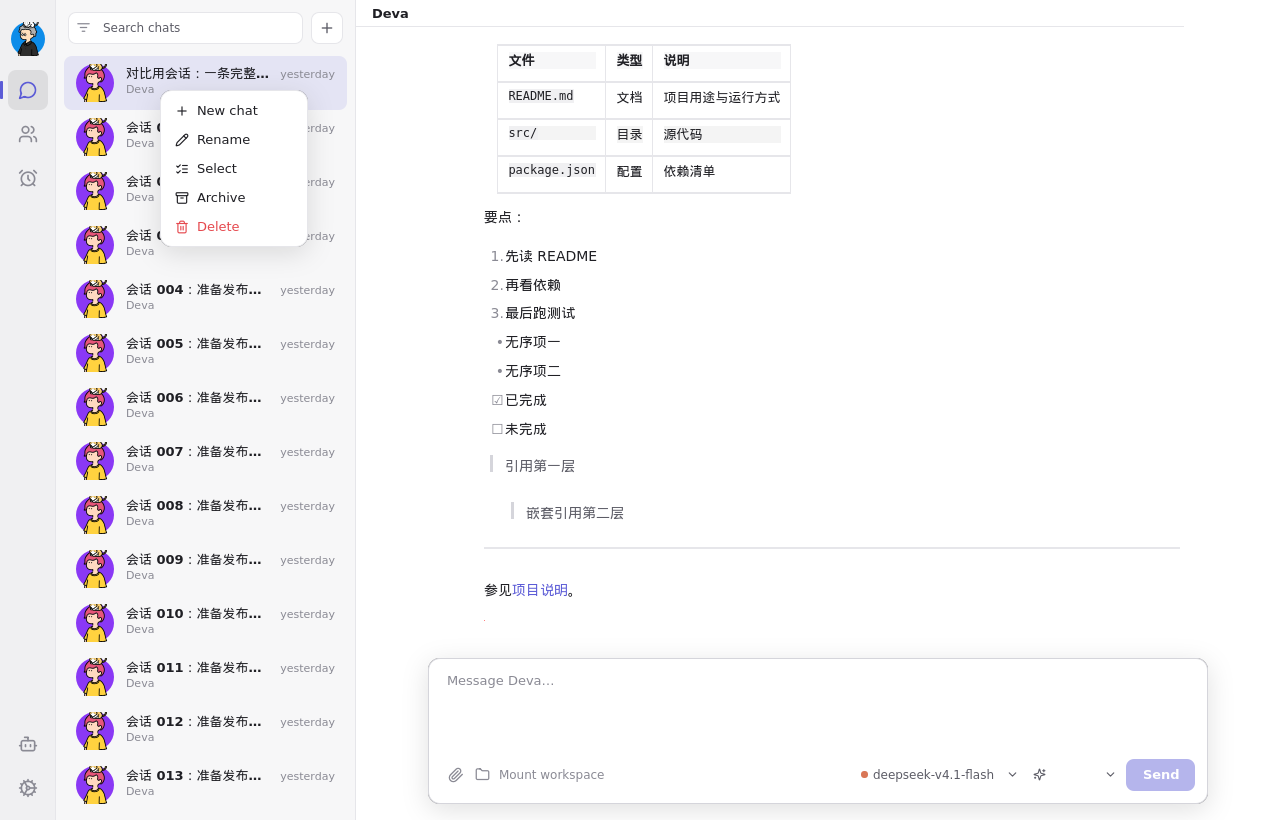
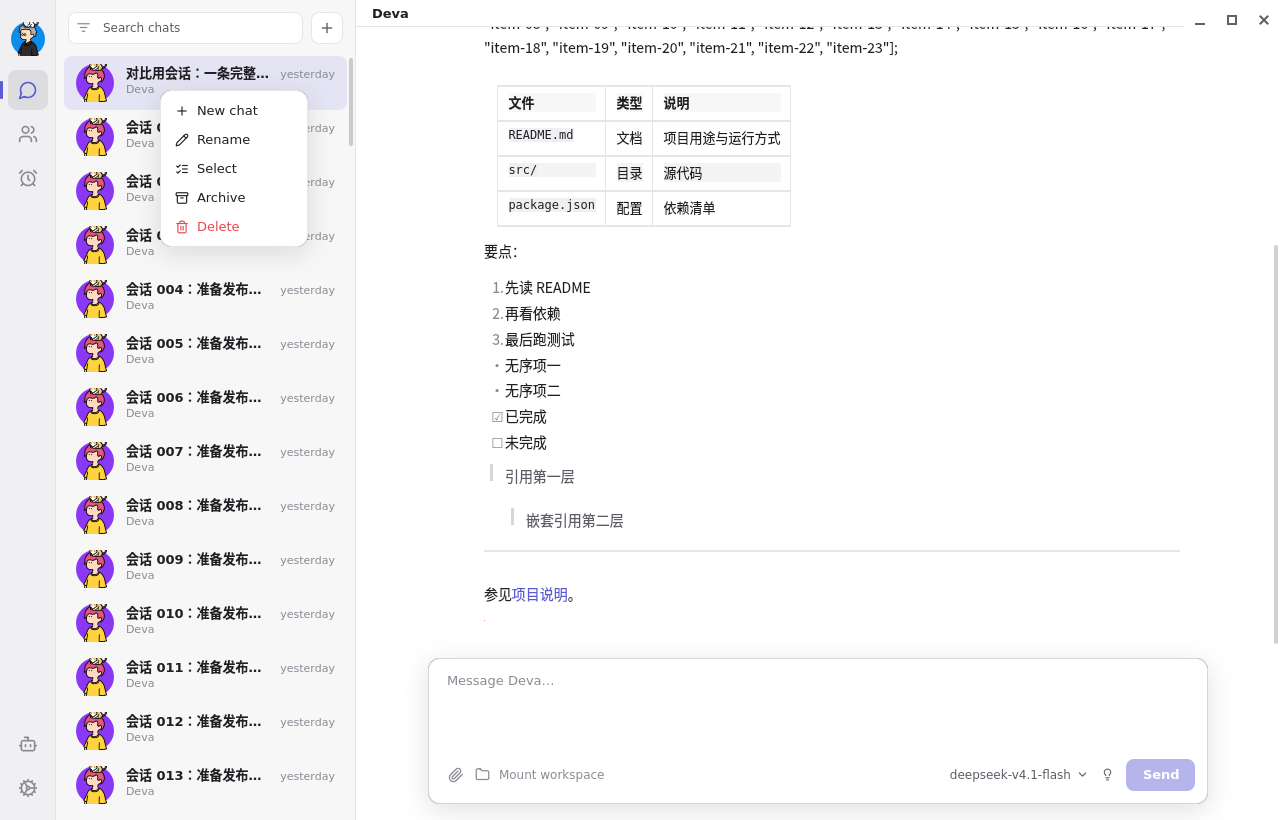
test(qml): 右键非活动会话动作端到端验证并重拍 ctx-menu
Rename/Select/Archive 的产品接线已在 d4279ad/9e7d23c 完成；本提交补上从非活动行真实右键的端到端覆盖，验证 ctxSessionId 传播、标题落盘、选择集与归档持久化。重拍 ctx-menu 单页，像素差异 12.12% -> 10.99%。

diff --git a/app/tests/test_qml_context_menu.py b/app/tests/test_qml_context_menu.py
@@ -7,7 +7,9 @@
 3. 重开菜单后点 ``Cancel`` / 点背板 → ``confirm=False``、会话数不变；
 4. 点 ``Rename`` → 输入框出现且可编辑，提交后标题落盘并反映到列表；
 5. 点 ``Select`` → 多选态与底部批量条出现，点行可增减选择数；
-6. 点 ``Archive`` → 会话从普通列表消失、写入 ``archived``，并在归档入口里可查到。
+6. 点 ``Archive`` → 会话从普通列表消失、写入 ``archived``，并在归档入口里可查到；
+7. 从非活动行真实右键 → ``ctxSessionId`` 跟随该行，Rename/Select/Archive 都作用于这一条，
+   并逐项打印会话数、标题、选择集、归档标记与目标文件存在性。
 
 菜单的 5 项名称、顺序、几何与项中心也在第一组里量出来并断言，坐标不是旧截图的常量。
 """
@@ -357,6 +359,104 @@ def test_select_menu_enters_multi_select_with_batch_bar(qapp, tmp_path, monkeypa
         assert bar.property("visible") is False
         assert window.property("selectMode") is False
         assert _as_list(window.property("selectedSessions")) == []
+    finally:
+        ticker.stop()
+        window.close()
+        engine.deleteLater()
+
+
+def test_right_click_non_active_row_actions_hit_that_row(qapp, tmp_path, monkeypatch):
+    """第 7 组：从非活动行右键进入，Rename/Select/Archive 都作用于被右键的那一条。
+
+    `ctx-menu` 深链页的 ctxSessionId 为空，旧用例实际都回退到了当前会话；这里从
+    `threadRow1` 真实右键打开菜单，验证 ctxSessionId 传播到三个动作，并逐项打印
+    会话数量、标题、选择集、归档标记与目标文件存在性。
+    """
+    window, bridge, store, home, ticker, engine = _build_window(tmp_path, monkeypatch)
+    try:
+        from PySide6.QtCore import Qt
+        from PySide6.QtTest import QTest
+
+        _pump(qapp, 0.6)
+        # `_build_window` 默认停在 ctx-menu 深链页，整窗有菜单遮罩；先回到正常 chat 页，
+        # 才能从列表行真实右键（与用户操作一致）。
+        window.setProperty("page", "chat")
+        _pump(qapp, 0.4)
+        assert len(session_rows(store)) == 120
+        assert bridge._active == "parity-000"
+        print(f"BEFORE sessions={len(session_rows(store))} active={bridge._active!r}")
+
+        # Rename：右键第 2 行，菜单的 ctxSessionId 必须是 parity-001，而不是活动会话。
+        row1 = _find_item(window.contentItem(), "threadRow1")
+        assert row1 is not None
+        _click(window, row1, Qt.RightButton)
+        _pump(qapp, 0.3)
+        assert window.property("ctxOpen") is True
+        assert window.property("ctxSessionId") == "parity-001"
+        _click(window, _menu_items(window)[1])
+        _pump(qapp, 0.4)
+        field = _find_item(window.contentItem(), "renameInput")
+        assert field is not None
+        assert field.property("text") == "会话 001：准备发布说明"
+        _click(window, field)
+        QTest.keyClick(window, Qt.Key_A, Qt.ControlModifier)
+        _type_text(window, "renamed non active")
+        _click(window, _find_item(window.contentItem(), "renameConfirm"))
+        _pump(qapp, 0.5)
+        renamed_title = store.load_session("parity-001").title
+        print(
+            "AFTER_RENAME"
+            f" sessions={len(session_rows(store))}"
+            f" title={renamed_title!r}"
+            f" active={bridge._active!r}"
+            f" file_exists={store.session_path('parity-001').exists()}"
+        )
+        assert renamed_title == "renamed non active"
+        assert len(session_rows(store)) == 120
+        assert bridge._active == "parity-000"
+        assert store.session_path("parity-001").exists()
+
+        # Select：deva 的菜单项是 cf.multiSelect（英文 Select），进入多选并选中被右键行。
+        row1 = _find_item(window.contentItem(), "threadRow1")
+        _click(window, row1, Qt.RightButton)
+        _pump(qapp, 0.3)
+        assert window.property("ctxSessionId") == "parity-001"
+        _click(window, _menu_items(window)[2])
+        _pump(qapp, 0.4)
+        selected = _as_list(window.property("selectedSessions"))
+        print(
+            "AFTER_SELECT"
+            f" selectMode={window.property('selectMode')}"
+            f" selected={selected}"
+            f" active={bridge._active!r}"
+        )
+        assert window.property("selectMode") is True
+        assert selected == ["parity-001"]
+        assert bridge._active == "parity-000", "Select 是多选入口，不切换当前会话（deva UseThreadSelect）"
+        _click(window, _find_item(window.contentItem(), "selectionExit"))
+        _pump(qapp, 0.2)
+
+        # Archive：右键同一非活动行，归档后普通列表 120→119，文件保留且 archived=true。
+        row1 = _find_item(window.contentItem(), "threadRow1")
+        _click(window, row1, Qt.RightButton)
+        _pump(qapp, 0.3)
+        assert window.property("ctxSessionId") == "parity-001"
+        _click(window, _menu_items(window)[3])
+        _pump(qapp, 0.6)
+        archived_meta = store.load_session("parity-001")
+        print(
+            "AFTER_ARCHIVE"
+            f" sessions={len(session_rows(store))}"
+            f" archived={bool(archived_meta.archived)}"
+            f" active={bridge._active!r}"
+            f" file_exists={store.session_path('parity-001').exists()}"
+        )
+        assert len(session_rows(store)) == 119
+        assert archived_meta.archived is True
+        assert store.session_path("parity-001").exists()
+        assert bridge._active == "parity-000"
+        archived = window.property("archivedSessions")
+        assert len(archived) == 1 and archived[0]["id"] == "parity-001"
     finally:
         ticker.stop()
         window.close()
